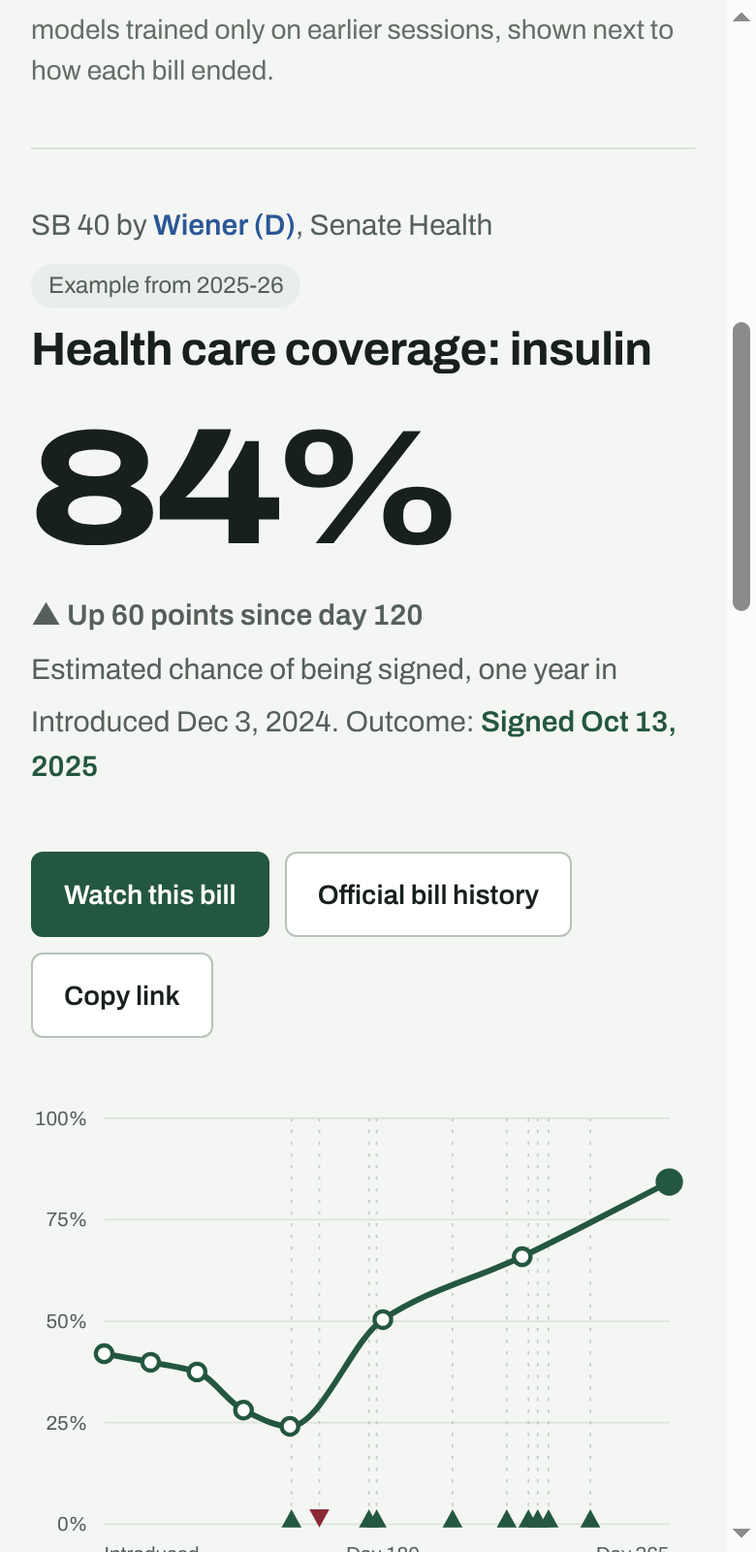
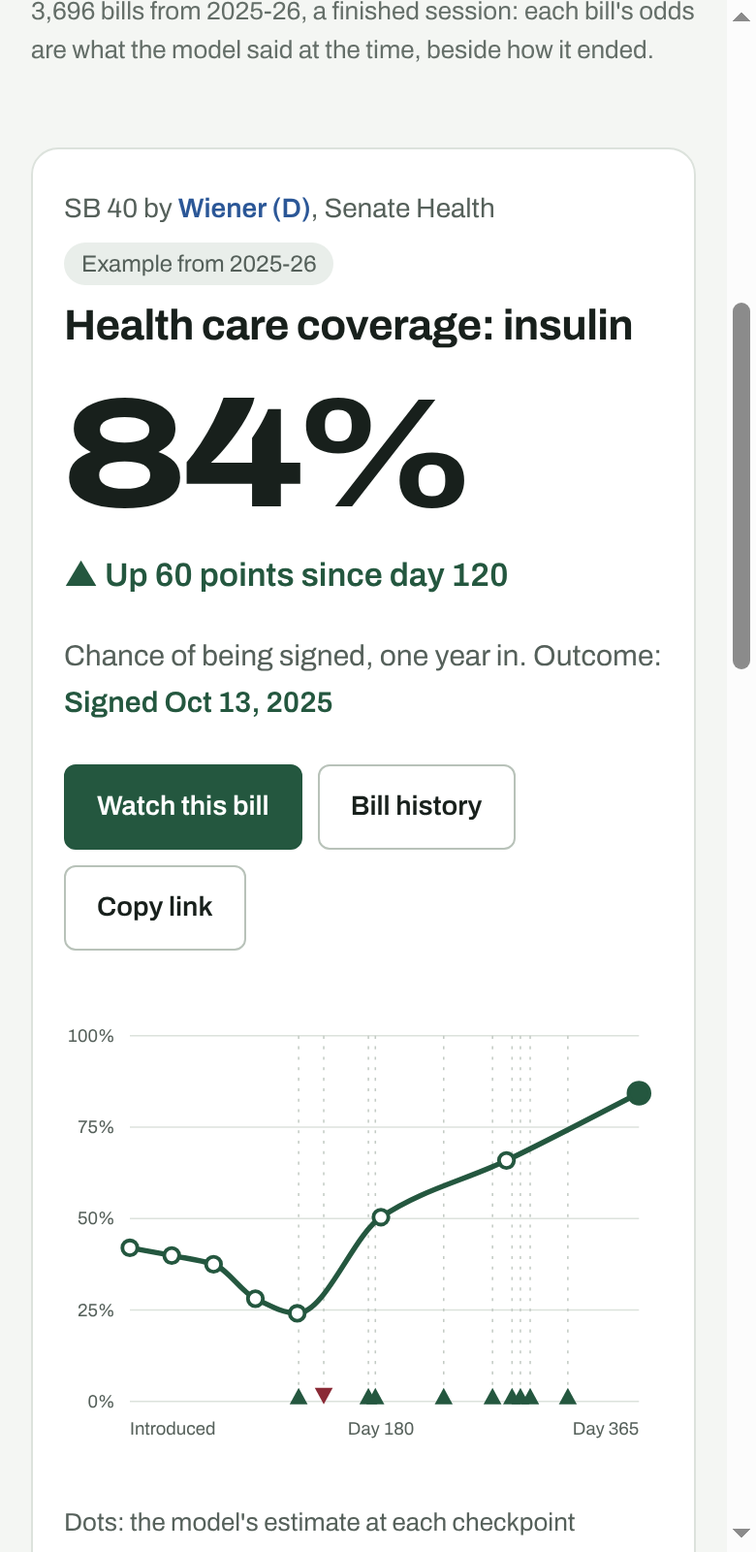
Streamline the home page
Search sits in a compact hero with the three model facts on one line. The featured bill is one
card: odds and actions beside the chart, and what moved the odds as a three-column grid under
both (five on a phone, with Show all). The watchlist drops its empty group row, the accuracy
strip is one compact card, and the drafting link moves up into the hero. On a phone the top
nav scrolls in one row. Asset tag bumped so browsers fetch the new stylesheet.

Claude-Session: https://claude.ai/code/session_012WpdVDKkAdx5bLLcT1wHBG

diff --git a/site/index.html b/site/index.html
@@ -9,7 +9,7 @@
 <link rel="preconnect" href="https://fonts.googleapis.com">
 <link rel="preconnect" href="https://fonts.gstatic.com" crossorigin>
 <link rel="stylesheet" href="https://fonts.googleapis.com/css2?family=Archivo:wdth,wght@62..125,100..900&display=swap">
-<link rel="stylesheet" href="common.css?v=2026-10-29b">
+<link rel="stylesheet" href="common.css?v=2026-10-29c">
 <style>
 /* Home page: tracking view (default) and drafting view */
 .odds{font-weight:800;font-stretch:125%;letter-spacing:-.03em;line-height:.88;color:var(--ink);font-variant-numeric:tabular-nums}
@@ -17,16 +17,15 @@
 .mv{font-weight:600;font-size:17px}
 
 /* Intro */
-.intro{display:flex;flex-wrap:wrap;gap:24px 56px;align-items:flex-end;padding:44px 0 32px}
-.intro h1{font-size:clamp(34px,5vw,54px);line-height:1.02;letter-spacing:-.03em;margin:0;max-width:14ch;font-stretch:108%}
-.intro .copy{flex:1 1 420px;min-width:0}
-.intro .copy p{margin:14px 0 0;color:var(--muted);font-size:18px;max-width:52ch}
-.facts{flex:1 1 380px;display:grid;grid-template-columns:repeat(3,minmax(0,1fr));gap:20px;margin:0;padding:0;list-style:none}
-.facts li{border-top:1px solid var(--line-strong);padding-top:12px;font-size:14px;color:var(--muted);line-height:1.45}
-.facts b{display:block;color:var(--ink);font-size:20px;white-space:nowrap;font-stretch:112%;letter-spacing:-.01em;margin-bottom:4px;font-weight:700}
-
+.hero{padding:40px 0 8px}
+.hero-top{display:flex;flex-wrap:wrap;align-items:flex-end;justify-content:space-between;gap:16px 32px}
+.hero h1{font-size:clamp(32px,4.2vw,50px);line-height:1.04;letter-spacing:-.03em;margin:0;font-stretch:106%}
+.hero-top p{margin:10px 0 0;color:var(--muted);font-size:17px;max-width:60ch}
+.facts{display:flex;flex-wrap:wrap;gap:6px 22px;margin:14px 0 0;padding:0;list-style:none;font-size:14px;color:var(--muted)}
+.facts b{color:var(--ink);font-weight:700}
+.facts .st{flex-basis:100%;color:var(--subtle);font-size:13px}
 /* Search */
-.search{position:relative;margin:8px 0 12px}
+.search{position:relative;margin:24px 0 0}
 .search .box{display:flex;align-items:center;gap:12px;background:var(--panel);border:1px solid var(--line-strong);border-radius:var(--r-md);padding:0 18px;min-height:60px}
 .search .box:focus-within{box-shadow:var(--focus)}
 .search input{flex:1;min-width:0;border:0;background:transparent;font-size:18px;padding:16px 0;min-height:58px}
@@ -42,19 +41,18 @@
 .results .au{font-size:13px;color:var(--muted);display:block}
 .results .pp{font-weight:700;font-stretch:115%;font-size:18px}
 .results .oc{font-size:13px;min-width:84px;text-align:right}
-.status{font-size:14px;color:var(--subtle);margin:0 0 28px}
 
 /* Featured bill */
-.featured{display:grid;grid-template-columns:minmax(0,8fr) minmax(0,4fr);gap:32px 48px;padding:28px 0 8px;border-top:1px solid var(--line)}
-.fhead{display:flex;flex-wrap:wrap;gap:8px 14px;align-items:center;font-size:15px;color:var(--muted)}
+.featured{margin-top:32px;background:var(--panel);border:1px solid var(--line);border-radius:var(--r-lg);padding:28px 28px 8px}
+.fgrid{display:grid;grid-template-columns:minmax(0,5fr) minmax(0,7fr);gap:24px 40px;align-items:start}
+.fhead{display:flex;flex-wrap:wrap;gap:6px 12px;align-items:center;font-size:14px;color:var(--muted)}
 .fhead .tag{margin:0}
-.featured h2{font-size:clamp(24px,3vw,34px);line-height:1.15;margin:8px 0 0;letter-spacing:-.015em;font-weight:700}
-.quote{display:flex;flex-wrap:wrap;align-items:flex-end;gap:12px 28px;margin-top:22px}
-.quote .odds{font-size:clamp(84px,13vw,140px)}
-.quote .sub{padding-bottom:10px}
-.quote .sub p{margin:4px 0 0;color:var(--muted);font-size:15px}
-.factions{display:flex;flex-wrap:wrap;gap:8px;margin-top:22px}
-.chart{position:relative;margin-top:26px}
+.featured h2{font-size:clamp(22px,2.4vw,28px);line-height:1.2;margin:8px 0 0;letter-spacing:-.015em;font-weight:700}
+.quote .odds{font-size:clamp(80px,9vw,124px);margin-top:18px}
+.quote .sub p{margin:6px 0 0;color:var(--muted);font-size:15px}
+.quote .mv{margin-top:14px}
+.factions{display:flex;flex-wrap:wrap;gap:8px;margin-top:20px}
+.chart{position:relative;margin-top:6px}
 .chart svg{display:block;width:100%;height:auto;overflow:visible}
 .chart .pt{cursor:pointer;outline:none}
 .chart .pt:focus-visible circle.ring{stroke:var(--ink);stroke-width:2.5}
@@ -63,23 +61,24 @@
 .tip{position:absolute;pointer-events:none;background:var(--ink);color:var(--bg);font-size:13px;line-height:1.35;padding:7px 10px;border-radius:6px;white-space:nowrap;transform:translate(-50%,calc(-100% - 12px));font-weight:500;z-index:5}
 .tip b{font-weight:700}
 .legend{display:flex;flex-wrap:wrap;gap:6px 18px;font-size:13px;color:var(--muted);margin-top:8px}
-.timeline h3,.panel-h{font-size:17px;margin:0 0 12px;font-weight:700}
-.timeline ol{list-style:none;margin:0;padding:0;position:relative}
-.timeline li{display:grid;grid-template-columns:22px minmax(0,1fr);gap:10px;padding:10px 0;border-top:1px solid var(--line);font-size:15px;line-height:1.4}
-.timeline li:last-child{border-bottom:1px solid var(--line)}
-.timeline .ar{font-size:12px;padding-top:3px}
-.timeline .dt{display:block;font-size:13px;color:var(--muted);margin-bottom:2px}
-.timeline .empty{color:var(--muted);font-size:15px}
+.timeline{margin-top:20px;border-top:1px solid var(--line);padding:18px 0 14px}
+.timeline h3{font-size:16px;margin:0 0 6px;font-weight:700}
+.timeline ol{list-style:none;margin:0;padding:0;display:grid;grid-template-columns:repeat(3,minmax(0,1fr));gap:0 28px}
+.timeline li{display:grid;grid-template-columns:16px minmax(0,1fr);gap:8px;padding:10px 0;border-bottom:1px solid var(--line);font-size:14px;line-height:1.35}
+.timeline .ar{font-size:11px;padding-top:3px}
+.timeline .dt{display:block;font-size:12px;color:var(--muted);margin-bottom:2px}
+.timeline .more-ev{display:none;margin-top:10px}
+.timeline .empty{color:var(--muted);font-size:14px;margin:4px 0 0}
 
 /* Watchlist */
-.block{margin-top:64px}
+.block{margin-top:48px}
 .block-h{display:flex;flex-wrap:wrap;align-items:baseline;justify-content:space-between;gap:8px 16px;margin-bottom:14px}
 .block-h h2{font-size:26px;margin:0;font-weight:700}
 .block-h p{margin:0;color:var(--muted);font-size:15px}
 .wl{position:relative;overflow-x:auto;background:var(--panel);border-radius:var(--r-lg)}
 .wl table{min-width:820px}
 .wl th{background:var(--panel);padding:14px 16px}
-.wl td{padding:14px 16px;vertical-align:middle}
+.wl td{padding:10px 16px;vertical-align:middle}
 .wl tr.grp td{font-size:13px;color:var(--muted);padding:18px 16px 8px;border-bottom:1px solid var(--line-strong);background:var(--panel)}
 .wl tr.grp:hover{background:none}
 .wl tr.sel{background:var(--raised)}
@@ -91,9 +90,12 @@
 .wl .rm:hover{color:var(--ink)}
 
 /* Accuracy */
-.acc{display:grid;grid-template-columns:minmax(0,4fr) minmax(0,7fr);gap:24px 56px;align-items:end}
-.acc p{color:var(--muted);font-size:15px;margin:10px 0 0;max-width:46ch}
-.accbars{display:grid;grid-template-columns:repeat(8,minmax(0,1fr));gap:8px;align-items:end;height:190px}
+.acc{display:grid;grid-template-columns:minmax(0,5fr) minmax(0,7fr);gap:24px 48px;align-items:end;background:var(--panel);border:1px solid var(--line);border-radius:var(--r-lg);padding:24px 28px}
+.acc h2{font-size:22px;margin:0;font-weight:700}
+.acc p{color:var(--muted);font-size:14px;margin:8px 0 0;max-width:52ch}
+.acc details.more{margin-top:12px;border:0;padding:0}
+.acc details.more summary{min-height:36px;font-size:14px}
+.accbars{display:grid;grid-template-columns:repeat(8,minmax(0,1fr));gap:6px;align-items:end;height:150px}
 .accbars div{display:flex;flex-direction:column;justify-content:flex-end;gap:6px;height:100%;text-align:center}
 .accbars b{font-size:15px;font-stretch:112%}
 .accbars i{display:block;border-radius:4px 4px 0 0;background:#B8C2B9}
@@ -205,17 +207,21 @@ details.more summary{cursor:pointer;color:var(--ink);font-weight:600;min-height:
 @media (max-width:640px){.pop{left:16px!important;right:16px;width:auto;top:auto!important;bottom:16px;max-height:70vh}.pop ul{max-height:50vh}}
 
 @media (max-width:960px){
-  .featured,.dgrid,.moves,.acc{grid-template-columns:minmax(0,1fr)}
+  .fgrid,.dgrid,.moves,.acc{grid-template-columns:minmax(0,1fr)}
+  .timeline ol{grid-template-columns:repeat(2,minmax(0,1fr))}
   .res{position:static}
 }
 @media (max-width:640px){
+  .featured{padding:20px 16px 4px}
+  .acc{padding:20px 16px}
+  .timeline ol{grid-template-columns:minmax(0,1fr)}
+  .timeline ol:not(.all) li:nth-child(n+6){display:none}
+  .timeline .more-ev{display:inline-flex}
   .sheet .row{grid-template-columns:minmax(0,1fr)}
   .pkb .ph{display:none}
   .sheet .lab{padding:14px 16px 0;font-size:14px}
   .sheet .val{padding:8px 16px 14px}
   .dgest{padding:16px}
-  .facts{grid-template-columns:1fr;gap:10px}
-  .intro{padding-top:28px}
   .results button{grid-template-columns:64px minmax(0,1fr) auto;padding:12px 14px}
   .results .oc{display:none}
   .chk{grid-template-columns:1fr}
@@ -231,48 +237,45 @@ details.more summary{cursor:pointer;color:var(--ink);font-weight:600;min-height:
 
 <!-- Track a bill: the home view -->
 <div class="view" id="track" hidden>
-  <div class="intro">
-    <div class="copy">
-      <h1>Know the odds before the vote.</h1>
-      <p>A statistical forecast of which California bills will become law, built for the people who write, track and influence legislation.</p>
+  <div class="hero">
+    <div class="hero-top">
+      <div>
+        <h1>Know the odds before the vote.</h1>
+        <p>Forecasts of which California bills become law, for the people who write, track and influence them.</p>
+      </div>
+      <button class="btn" id="m-draft" type="button" aria-selected="false">Drafting a bill? Estimate it</button>
+    </div>
+    <div class="search" role="search">
+      <label for="tq" class="sr">Search bills</label>
+      <div class="box">
+        <svg width="20" height="20" viewBox="0 0 20 20" aria-hidden="true"><circle cx="9" cy="9" r="6.5" fill="none" stroke="#55605A" stroke-width="2"></circle><path d="M14 14l4 4" stroke="#55605A" stroke-width="2" stroke-linecap="round"></path></svg>
+        <input id="tq" type="search" placeholder="Search by bill number, author or subject…" autocomplete="off" aria-controls="tres" aria-describedby="tnote">
+      </div>
+      <div id="tres" class="results" hidden></div>
     </div>
     <ul class="facts" aria-label="About the model">
-      <li><b id="f-bills">38,333 bills</b>in the training data, every legislator's bills since <span id="f-first">2007-08</span>.</li>
-      <li><b>Tested blind</b>on the <span id="f-test">2025-26</span> session, which the model never saw.</li>
-      <li><b id="f-auc">AUC 0.70–0.95</b>from introduction to one year in, as a bill's history builds.</li>
+      <li><b id="f-bills">38,333 bills</b> since <span id="f-first">2007-08</span></li>
+      <li><b>Tested blind</b> on <span id="f-test">2025-26</span></li>
+      <li><b id="f-auc">AUC 0.70–0.95</b> as a bill moves</li>
+      <li class="st" id="tnote">Loading bills…</li>
     </ul>
   </div>
-
-  <div class="search" role="search">
-    <label for="tq" class="sr">Search bills</label>
-    <div class="box">
-      <svg width="20" height="20" viewBox="0 0 20 20" aria-hidden="true"><circle cx="9" cy="9" r="6.5" fill="none" stroke="#55605A" stroke-width="2"></circle><path d="M14 14l4 4" stroke="#55605A" stroke-width="2" stroke-linecap="round"></path></svg>
-      <input id="tq" type="search" placeholder="Search by bill number, author or subject…" autocomplete="off" aria-controls="tres" aria-describedby="tnote">
-    </div>
-    <div id="tres" class="results" hidden></div>
-  </div>
-  <p class="status" id="tnote">Loading bills…</p>
 
   <div id="tbill" aria-live="polite"><p class="loading">Loading the featured bill…</p></div>
 
   <div class="block" id="watch">
-    <div class="block-h"><h2>Watchlist</h2><p>Select a bill to chart it. Your bills stay in this browser.</p></div>
+    <div class="block-h"><h2>Watchlist</h2><p id="wlhint">Select a bill to chart it.</p></div>
     <div class="wl" id="wl"><p class="loading" style="padding:18px">Loading…</p></div>
   </div>
 
-  <div class="block">
-    <div class="acc">
-      <div>
-        <h2 style="font-size:26px;margin:0">The odds sharpen as a bill moves</h2>
-        <p>AUC measures how often a signed bill ranks above an unsigned bill. 0.50 is equivalent to chance. Each checkpoint has its own model, trained on earlier sessions and tested on <span id="ttest"></span>.</p>
-        <p class="small">AUC ranks bills against each other. It is not the chance that any single forecast is right.</p>
-      </div>
-      <div id="tacc" class="accbars" role="img" aria-label="AUC by days after introduction"></div>
+  <div class="block acc">
+    <div>
+      <h2>The odds sharpen as a bill moves</h2>
+      <p>AUC: how often a signed bill ranks above one that failed (0.50 is chance). One model per checkpoint, trained on earlier sessions and tested on <span id="ttest"></span>. It ranks bills; it is not the chance any single forecast is right.</p>
+      <details class="more"><summary>Predicted against actual</summary><div id="taccT"></div></details>
     </div>
-    <details class="more"><summary>Predicted against actual, by checkpoint</summary><div id="taccT"></div></details>
+    <div id="tacc" class="accbars" role="img" aria-label="AUC by days after introduction"></div>
   </div>
-
-  <p style="margin-top:56px"><button class="btn" id="m-draft" type="button" aria-selected="false">Drafting a bill? Estimate it before introduction</button></p>
 </div>
 
 <!-- Draft a bill -->
@@ -366,7 +369,7 @@ details.more summary{cursor:pointer;color:var(--ink);font-weight:600;min-height:
 <footer>Not affiliated with any office or legislator. Not a forecast of any specific bill and not advice.<br>Source: California Legislative Information bulk export (leginfo). Model code, tests and methodology are in the repository.</footer>
 </div></main>
 <script>if(/[?&](sess|chamber|scope|method|budget|sort)=/.test(location.search))location.replace("scorecard.html"+location.search+location.hash);</script>
-<script src="common.js?v=2026-10-29b"></script>
+<script src="common.js?v=2026-10-29c"></script>
 <script src="insights.js"></script>
 <script src="data/model.js"></script>
 <script>
@@ -748,12 +751,12 @@ function initTrack() {
   const acc = T.accuracy, lab = label(T.session);
   $("ttest").textContent = lab; $("f-test").textContent = lab;
   if (acc.length) $("f-auc").textContent = `AUC ${acc[0].auc.toFixed(2)}–${acc[acc.length - 1].auc.toFixed(2)}`;
-  $("tacc").innerHTML = acc.map(a => `<div><b>${a.auc.toFixed(2)}</b><i class="${a.auc >= 0.8 ? "hi" : ""}" style="height:${Math.max(4, Math.round((a.auc - 0.5) * 260))}px"></i><span>${SHORT(a.days)}</span></div>`).join("");
+  $("tacc").innerHTML = acc.map(a => `<div><b>${a.auc.toFixed(2)}</b><i class="${a.auc >= 0.8 ? "hi" : ""}" style="height:${Math.max(4, Math.round((a.auc - 0.5) * 190))}px"></i><span>${SHORT(a.days)}</span></div>`).join("");
   $("tacc").setAttribute("aria-label", "AUC by time after introduction: " + acc.map(a => `${LBL(a.days).toLowerCase()} ${a.auc.toFixed(2)}`).join(", "));
   $("taccT").innerHTML = "<div class='scroll'><table><thead><tr><th>When</th><th class='n'>AUC</th><th class='n'>Predicted signed</th><th class='n'>Actually signed</th></tr></thead><tbody>" +
     acc.map(a => `<tr><td>${LBL(a.days)}</td><td class="n"><b>${a.auc.toFixed(2)}</b></td><td class="n">${pc(a.predicted_rate)}</td><td class="n">${pc(a.actual_rate)}</td></tr>`).join("") + "</tbody></table></div>";
   $("tnote").textContent = T.complete
-    ? `${TR.length.toLocaleString()} bills from ${lab}, a finished session. Odds are what the model would have said at the time, from models trained only on earlier sessions, shown next to how each bill ended.`
+    ? `${TR.length.toLocaleString()} bills from ${lab}, a finished session: each bill's odds are what the model said at the time, beside how it ended.`
     : `${TR.length.toLocaleString()} bills from ${lab}, odds as of ${T.asof}. They update with each weekly data refresh.`;
   const ex = EXAMPLES[T.session];
   if (!trackSel || !TRI[trackSel]) trackSel = ex && TRI[ex.featured] ? ex.featured : biggestMovers(1)[0];
@@ -817,7 +820,7 @@ function monotone(pts) {
   return d;
 }
 function chart(b, evs) {
-  const narrow = $("tbill").clientWidth < 600, ks = TRACKING.checkpoints, W = narrow ? 400 : 760, H = 320, L = 44, R = 16, Tp = 18, Bt = 262;
+  const narrow = (innerWidth > 960 ? $("tbill").clientWidth * 0.6 : $("tbill").clientWidth) < 520, ks = TRACKING.checkpoints, W = narrow ? 400 : 760, H = 320, L = 44, R = 16, Tp = 18, Bt = 262;
   const xmax = Math.max(365, ...evs.map(e => e.day));
   const X = d => L + (W - L - R) * Math.min(d, xmax) / xmax, Y = p => Bt - (Bt - Tp) * p;
   const pts = ks.map((k, j) => b.p[j] == null ? null : [X(k), Y(b.p[j]), k, b.p[j]]).filter(Boolean);
@@ -849,18 +852,21 @@ function showBill(id, quiet) {
   const ex = EXAMPLES[TRACKING.session], isEx = ex && (id === ex.featured || ex.list.includes(id));
   const watched = WATCH.includes(id);
   const tl = EV === null ? '<p class="empty">Loading what happened…</p>' : EV === false ? '<p class="empty">Could not load bill histories. Reload the page to try again.</p>' : !evs.length ? '<p class="empty">No committee votes, floor votes or Governor action recorded for this bill.</p>' :
-    `<ol>${evs.map(e => `<li><span class="ar ${e.good ? "up" : "down"}" aria-hidden="true">${e.good ? "▲" : "▼"}</span><span><span class="dt">${fmtDate(e.date)}, day ${e.day}</span>${esc(e.text)}<span class="sr">${e.good ? " (helped)" : " (hurt)"}</span></span></li>`).join("")}</ol>`;
-  $("tbill").innerHTML = `<div class="featured">
-    <div>
+    `<ol id="evl">${evs.map(e => `<li><span class="ar ${e.good ? "up" : "down"}" aria-hidden="true">${e.good ? "▲" : "▼"}</span><span><span class="dt">${fmtDate(e.date)}, day ${e.day}</span>${esc(e.text)}<span class="sr">${e.good ? " (helped)" : " (hurt)"}</span></span></li>`).join("")}</ol>${evs.length > 5 ? `<button class="btn sm more-ev" type="button" id="evmore">Show all ${evs.length}</button>` : ""}`;
+  $("tbill").innerHTML = `<div class="featured"><div class="fgrid">
+    <div class="quote">
       <div class="fhead"><span>${esc(spaced(b.bill))} by <span class="${b.party}">${esc(b.member)} (${esc(b.party)})</span>, ${esc(b.area)}</span>${isEx ? `<span class="tag">Example from ${label(TRACKING.session)}</span>` : ""}</div>
       <h2>${esc(b.title.replace(/\.$/, ""))}</h2>
-      <div class="quote"><div class="odds">${p == null ? "–" : pc(p)}</div><div class="sub">${mv}<p>Estimated chance of being signed${i >= 0 ? `, ${i === 0 ? "at introduction" : ks[i] === 365 ? "one year in" : `day ${ks[i]}`}` : ""}</p><p>Introduced ${fmtDate(addDays(b.intro, 0))}. Outcome: <span class="o-${b.outcome}">${esc(outTxt)}</span></p></div></div>
-      <div class="factions"><button class="btn primary" type="button" id="wbtn" aria-pressed="${watched}">${watched ? "Remove from watchlist" : "Watch this bill"}</button><a class="btn" href="${CL.leginfo(TRACKING.session, b.bill)}" target="_blank" rel="noopener">Official bill history</a><button class="btn" type="button" id="tshare">Copy link</button></div>
-      ${chart(b, evs)}
+      <div class="odds">${p == null ? "–" : pc(p)}</div>
+      ${mv}
+      <div class="sub"><p>Chance of being signed${i >= 0 ? `, ${i === 0 ? "at introduction" : ks[i] === 365 ? "one year in" : `day ${ks[i]}`}` : ""}. Outcome: <span class="o-${b.outcome}">${esc(outTxt)}</span></p></div>
+      <div class="factions"><button class="btn primary" type="button" id="wbtn" aria-pressed="${watched}">${watched ? "Remove from watchlist" : "Watch this bill"}</button><a class="btn" href="${CL.leginfo(TRACKING.session, b.bill)}" target="_blank" rel="noopener">Bill history</a><button class="btn" type="button" id="tshare">Copy link</button></div>
     </div>
-    <div class="timeline" id="tev"><h3>What moved the odds</h3>${tl}</div>
-  </div>`;
+    <div>${chart(b, evs)}</div>
+  </div>
+  <div class="timeline" id="tev"><h3>What moved the odds</h3>${tl}</div></div>`;
   $("wbtn").addEventListener("click", () => toggleWatch(id));
+  if ($("evmore")) $("evmore").addEventListener("click", () => { $("evl").classList.add("all"); $("evmore").remove(); });
   CL.shareButton($("tshare"));
   wireChart();
   document.querySelectorAll("#wl tr[data-b]").forEach(r => r.classList.toggle("sel", r.dataset.b === id));
@@ -896,13 +902,13 @@ function wrow(b, mine) {
     `<td>${mine ? `<button class="rm" type="button" data-rm="${esc(b.bill)}" aria-label="Remove ${esc(spaced(b.bill))} from watchlist">Remove</button>` : ""}</td></tr>`;
 }
 function renderWatch() {
+  $("wlhint").textContent = WATCH.length ? "Select a bill to chart it. Your bills stay in this browser." : `Examples from ${label(TRACKING.session)}. Use Watch this bill to add your own.`;
   const ex = EXAMPLES[TRACKING.session];
   const exIds = (ex ? ex.list : biggestMovers(5)).filter(x => TRI[x]);
   const mine = WATCH.filter(x => TRI[x]);
   $("wl").innerHTML = `<table><thead><tr><th scope="col">Bill</th><th scope="col">Title</th><th scope="col" class="n">At introduction</th><th scope="col">Trend</th><th scope="col" class="n">Latest odds</th><th scope="col">Outcome</th><th scope="col"><span class="sr">Actions</span></th></tr></thead><tbody>` +
-    `<tr class="grp"><td colspan="7">Your bills</td></tr>` +
-    (mine.length ? mine.map(x => wrow(TRI[x], true)).join("") : `<tr class="grp"><td colspan="7" style="color:var(--subtle);border:0">No bills yet. Open any bill and choose Watch this bill to keep it here.</td></tr>`) +
-    `<tr class="grp"><td colspan="7">${ex ? `Examples from ${label(TRACKING.session)}` : `Biggest movers in ${label(TRACKING.session)}`}</td></tr>` +
+    (mine.length ? `<tr class="grp"><td colspan="7">Your bills</td></tr>` + mine.map(x => wrow(TRI[x], true)).join("") : "") +
+    (mine.length || !ex ? `<tr class="grp"><td colspan="7">${ex ? `Examples from ${label(TRACKING.session)}` : `Biggest movers in ${label(TRACKING.session)}`}</td></tr>` : "") +
     exIds.map(x => wrow(TRI[x], false)).join("") + "</tbody></table>";
 }
 $("wl").addEventListener("click", e => {

diff --git a/site/legislator.html b/site/legislator.html
@@ -9,7 +9,7 @@
 <link rel="preconnect" href="https://fonts.googleapis.com">
 <link rel="preconnect" href="https://fonts.gstatic.com" crossorigin>
 <link rel="stylesheet" href="https://fonts.googleapis.com/css2?family=Archivo:wdth,wght@62..125,100..900&display=swap">
-<link rel="stylesheet" href="common.css?v=2026-10-29b">
+<link rel="stylesheet" href="common.css?v=2026-10-29c">
 <style>
 .scroll{overflow:auto}
 th,td{text-align:left;vertical-align:top}
@@ -26,7 +26,7 @@ tbody tr.link{cursor:pointer}tbody tr.link:hover{background:var(--hi)}
 </div></header>
 <main><div class="wrap" id="main"><p class="loading">Loading…</p></div>
 <div class="wrap"><footer>Not affiliated with any office or legislator. Not an endorsement of any legislator.<br>Source: California Legislative Information bulk export (leginfo): bills, outcomes and committee roll calls. Methodology is in the repository.</footer></div></main>
-<script src="common.js?v=2026-10-29b"></script>
+<script src="common.js?v=2026-10-29c"></script>
 <script src="data/sessions.js"></script>
 <script src="data/people_index.js"></script>
 <script>

diff --git a/site/committees.html b/site/committees.html
@@ -9,7 +9,7 @@
 <link rel="preconnect" href="https://fonts.googleapis.com">
 <link rel="preconnect" href="https://fonts.gstatic.com" crossorigin>
 <link rel="stylesheet" href="https://fonts.googleapis.com/css2?family=Archivo:wdth,wght@62..125,100..900&display=swap">
-<link rel="stylesheet" href="common.css?v=2026-10-29b">
+<link rel="stylesheet" href="common.css?v=2026-10-29c">
 <style>
 .scroll{overflow:auto}
 th,td{text-align:right;vertical-align:top}
@@ -32,7 +32,7 @@ th:nth-child(-n+4),td:nth-child(-n+4){text-align:left}
 <div id="out"><p class="loading">Loading…</p></div>
 <footer>Not affiliated with any office or legislator.<br>Source: California Legislative Information bulk export (leginfo), committee roll calls (BILL_DETAIL_VOTE_TBL). Roster checks use Internet Archive copies of each committee's members page; see data/processed/committee_roster_check.csv in the repository.</footer>
 </div></main>
-<script src="common.js?v=2026-10-29b"></script>
+<script src="common.js?v=2026-10-29c"></script>
 <script src="data/committees_index.js"></script>
 <script>
 CL.nav("committees.html");

diff --git a/site/trends.html b/site/trends.html
@@ -9,7 +9,7 @@
 <link rel="preconnect" href="https://fonts.googleapis.com">
 <link rel="preconnect" href="https://fonts.gstatic.com" crossorigin>
 <link rel="stylesheet" href="https://fonts.googleapis.com/css2?family=Archivo:wdth,wght@62..125,100..900&display=swap">
-<link rel="stylesheet" href="common.css?v=2026-10-29b">
+<link rel="stylesheet" href="common.css?v=2026-10-29c">
 <style>
 .bars{display:grid;grid-template-columns:minmax(120px,300px) 1fr 64px;gap:6px 10px;align-items:center;font-size:14px}
 .bars .lbl{overflow:hidden;text-overflow:ellipsis;white-space:nowrap}
@@ -45,7 +45,7 @@ th:first-child,td:first-child{text-align:left}
 <div id="out"></div>
 <footer>Not affiliated with any office or legislator.<br>Source: California Legislative Information bulk export (leginfo), including the Governor's veto messages. Pipeline, tests and methodology are in the repository.</footer>
 </div></main>
-<script src="common.js?v=2026-10-29b"></script>
+<script src="common.js?v=2026-10-29c"></script>
 <script src="insights.js"></script>
 <script>
 CL.nav("trends.html");

diff --git a/site/findings.html b/site/findings.html
@@ -9,7 +9,7 @@
 <link rel="preconnect" href="https://fonts.googleapis.com">
 <link rel="preconnect" href="https://fonts.gstatic.com" crossorigin>
 <link rel="stylesheet" href="https://fonts.googleapis.com/css2?family=Archivo:wdth,wght@62..125,100..900&display=swap">
-<link rel="stylesheet" href="common.css?v=2026-10-29b">
+<link rel="stylesheet" href="common.css?v=2026-10-29c">
 <style>
 main .wrap{max-width:820px}
 article p{margin:8px 0}
@@ -34,7 +34,7 @@ article p{margin:6px 0}
 <div id="out"></div>
 <footer>Not affiliated with any office or legislator.<br>Source: California Legislative Information bulk export (leginfo). Pipeline, tests and methodology are in the repository.</footer>
 </div></main>
-<script src="common.js?v=2026-10-29b"></script>
+<script src="common.js?v=2026-10-29c"></script>
 <script src="insights.js"></script>
 <script>
 CL.nav("findings.html");

diff --git a/site/scorecard.html b/site/scorecard.html
@@ -9,7 +9,7 @@
 <link rel="preconnect" href="https://fonts.googleapis.com">
 <link rel="preconnect" href="https://fonts.gstatic.com" crossorigin>
 <link rel="stylesheet" href="https://fonts.googleapis.com/css2?family=Archivo:wdth,wght@62..125,100..900&display=swap">
-<link rel="stylesheet" href="common.css?v=2026-10-29b">
+<link rel="stylesheet" href="common.css?v=2026-10-29c">
 <style>
 th{position:sticky;top:0;cursor:pointer;white-space:nowrap}
 th[aria-sort]{color:var(--ink)}
@@ -45,7 +45,7 @@ dialog table td:nth-child(n){text-align:left;white-space:normal}
 </div></main>
 <dialog id="dlg"><div id="dbody"></div><form method="dialog"><button>Close</button></form></dialog>
 <script src="data/sessions.js"></script>
-<script src="common.js?v=2026-10-29b"></script>
+<script src="common.js?v=2026-10-29c"></script>
 <script>
 CL.nav("scorecard.html");
 const {esc} = CL;

diff --git a/site/common.css b/site/common.css
@@ -107,7 +107,9 @@ dialog::backdrop{background:rgba(24,32,28,.45)}
   body{font-size:15px}
   .wrap,body>header .wrap,.topbar-in{padding-left:16px;padding-right:16px}
   .topbar{position:static}
-  .topnav{margin-left:0;width:100%}
+  .topnav{margin-left:0;width:calc(100% + 32px);margin-right:-16px;flex-wrap:nowrap;overflow-x:auto;scrollbar-width:none;padding-right:16px}
+  .topnav::-webkit-scrollbar{display:none}
+  .topnav a{flex:none}
   .topnav a{padding:10px 9px;font-size:14px}
   body>header{padding-top:28px}
   h1{font-size:30px}
